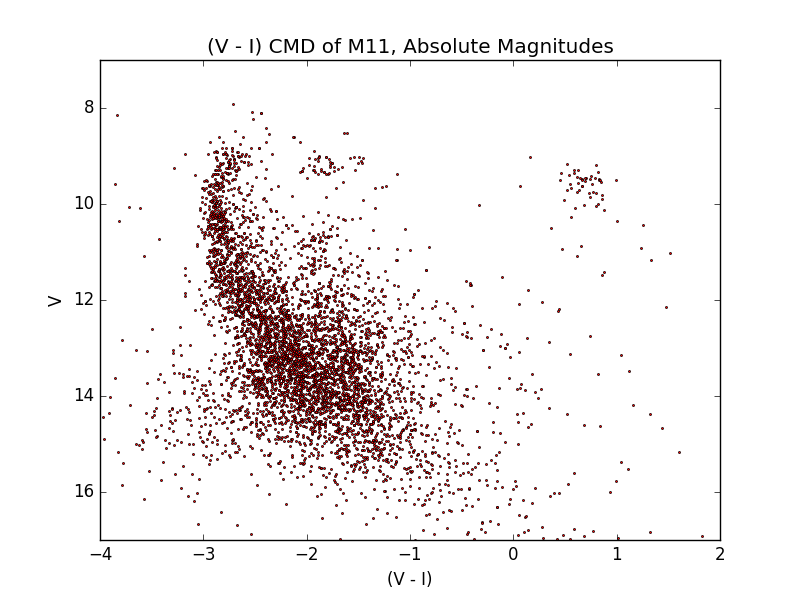
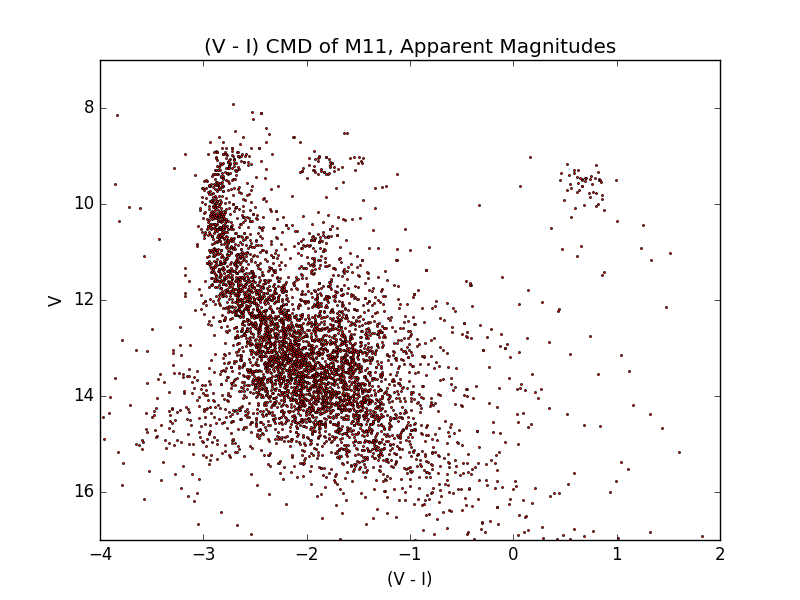
Fixing apparent mag image

Changed region(s): [[0.25, 0.06, 0.7812, 0.09]]

diff --git a/observational_assignment/make_cmd.py b/observational_assignment/make_cmd.py
@@ -62,5 +62,5 @@ plt.plot(colours,v_data,"ro",markersize = 1.5)
 plt.axis([-4,2,17,7])
 plt.xlabel("(V - I)")
 plt.ylabel("V")
-plt.title("(V - I) CMD of M11, Absolute Magnitudes")
+plt.title("(V - I) CMD of M11, Apparent Magnitudes")
 plt.show()
